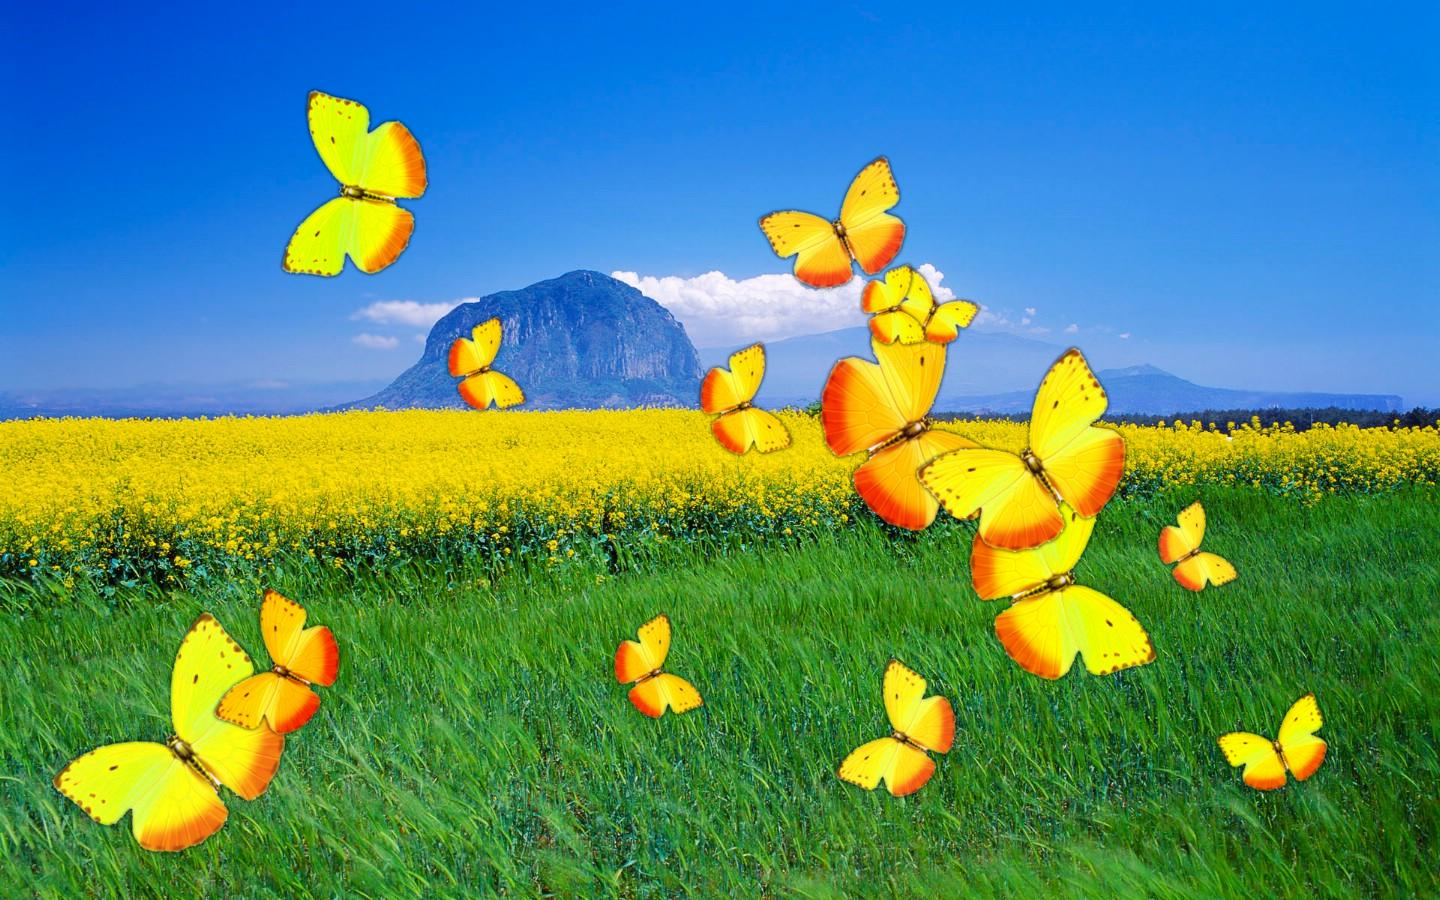
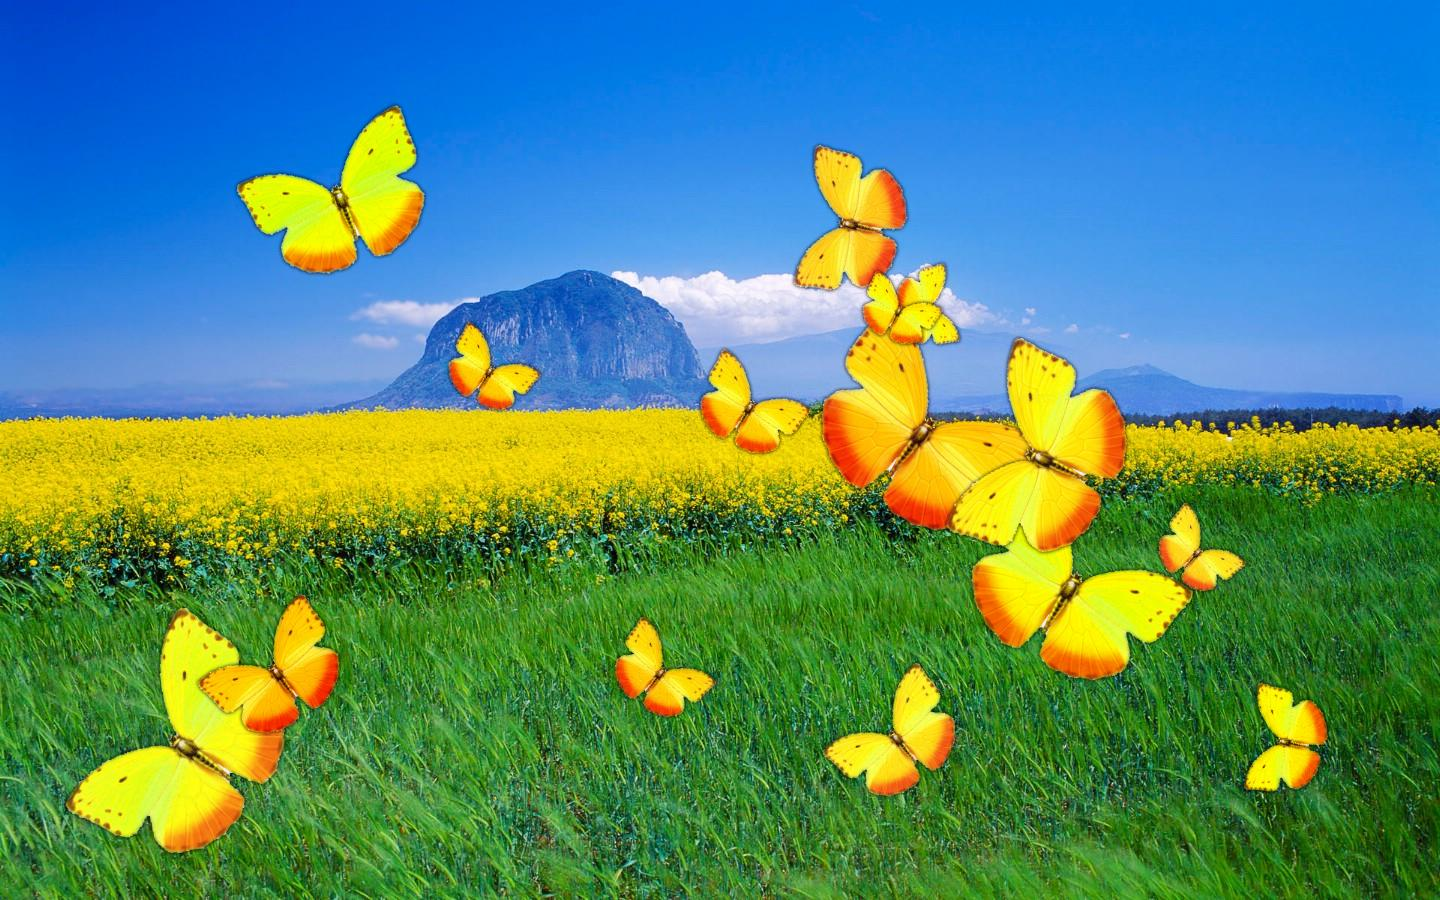
更新相关函数，换成自己编写的

diff --git a/imrotate_matlab_linear.m b/imrotate_matlab_linear.m
@@ -1,0 +1,145 @@
+function out = imrotate_matlab_linear(img, angleDeg, varargin)
+%IMROTATE_MATLAB_LINEAR  Teaching version of imrotate using matrix ops.
+%
+% out = imrotate_matlab_linear(img, angleDeg)
+% out = imrotate_matlab_linear(img, angleDeg, 'loose', true, 'fill', 0)
+%
+% - Uses homogeneous 3x3 transform matrices
+% - Uses inverse mapping + bilinear interpolation
+% - Supports "loose" canvas (like imrotate(...,'loose'))
+%
+% Notes:
+% - Coordinate convention: x = column index, y = row index (1-based)
+% - Rotation around image center
+
+% ---- parse args ----
+p = inputParser;
+addParameter(p, 'loose', true, @(x)islogical(x) && isscalar(x));
+addParameter(p, 'fill', 0, @(x)isnumeric(x) && isscalar(x));
+parse(p, varargin{:});
+doLoose  = p.Results.loose;
+fillVal  = p.Results.fill;
+
+img = double(img);  % compute in double
+[H, W, C] = size(img);
+
+% ---- angle ----
+theta = angleDeg * pi / 180;
+ct = cos(theta);
+st = sin(theta);
+
+% ---- define center (consistent with MATLAB style) ----
+% Use center at ( (W+1)/2, (H+1)/2 ) in 1-based coordinates
+cx = (W + 1) / 2;
+cy = (H + 1) / 2;
+
+% ---- build homogeneous transform T = Tc * R * T(-c) ----
+Tneg = [1 0 -cx;
+        0 1 -cy;
+        0 0  1];
+
+R = [ ct -st 0;
+      st  ct 0;
+      0   0  1];
+
+Tpos = [1 0 cx;
+        0 1 cy;
+        0 0  1];
+
+T = Tpos * R * Tneg;
+
+% ---- decide output canvas size ----
+if doLoose
+    % transform the 4 corners to find bounding box
+    corners = [ 1   W   W   1;
+                1   1   H   H;
+                1   1   1   1];
+    tc = T * corners;
+    x = tc(1, :);
+    y = tc(2, :);
+
+    xmin = floor(min(x));
+    xmax = ceil(max(x));
+    ymin = floor(min(y));
+    ymax = ceil(max(y));
+
+    outW = xmax - xmin + 1;
+    outH = ymax - ymin + 1;
+
+    % offset to shift output coords into 1..outW / 1..outH
+    % output pixel (xo,yo) corresponds to world coord:
+    % xw = xo + xmin - 1, yw = yo + ymin - 1
+    xminW = xmin;
+    yminW = ymin;
+else
+    outW = W;
+    outH = H;
+    xminW = 1;
+    yminW = 1;
+end
+
+% ---- create grid of output coordinates ----
+% output indices: xo=1..outW, yo=1..outH
+[xo, yo] = meshgrid(1:outW, 1:outH);
+
+% map to "world" coordinates in original reference
+xw = xo + (xminW - 1);
+yw = yo + (yminW - 1);
+
+% ---- inverse mapping: [xin; yin; 1] = inv(T) * [xw; yw; 1] ----
+Ti = inv(T);
+
+Pout = [xw(:)'; yw(:)'; ones(1, numel(xw))];
+Pin  = Ti * Pout;
+
+xin = reshape(Pin(1, :), outH, outW);
+yin = reshape(Pin(2, :), outH, outW);
+
+% ---- bilinear sampling for each channel ----
+out = zeros(outH, outW, C) + fillVal;
+
+% valid sampling area (need xin in [1,W], yin in [1,H])
+valid = (xin >= 1) & (xin <= W) & (yin >= 1) & (yin <= H);
+
+% compute neighbors
+x1 = floor(xin);  x2 = x1 + 1;
+y1 = floor(yin);  y2 = y1 + 1;
+
+% clamp neighbors to image bounds (for points near border)
+x1c = min(max(x1, 1), W);
+x2c = min(max(x2, 1), W);
+y1c = min(max(y1, 1), H);
+y2c = min(max(y2, 1), H);
+
+dx = xin - x1;
+dy = yin - y1;
+
+w11 = (1 - dx) .* (1 - dy);
+w21 = dx       .* (1 - dy);
+w12 = (1 - dx) .* dy;
+w22 = dx       .* dy;
+
+for k = 1:C
+    Ik = img(:,:,k);
+
+    % linear indices for the 4 neighbors
+    ind11 = sub2ind([H, W], y1c, x1c);
+    ind21 = sub2ind([H, W], y1c, x2c);
+    ind12 = sub2ind([H, W], y2c, x1c);
+    ind22 = sub2ind([H, W], y2c, x2c);
+
+    v11 = Ik(ind11);
+    v21 = Ik(ind21);
+    v12 = Ik(ind12);
+    v22 = Ik(ind22);
+
+    Vk = w11 .* v11 + w21 .* v21 + w12 .* v12 + w22 .* v22;
+
+    tmp = out(:,:,k);
+    tmp(valid) = Vk(valid);     % only write valid pixels; invalid keeps fillVal
+    out(:,:,k) = tmp;
+end
+
+% restore class similar to imrotate usage in your pipeline
+out = uint8(round(out));
+end

diff --git a/imresize_bilinear_mat.m b/imresize_bilinear_mat.m
@@ -1,0 +1,100 @@
+function out = imresize_bilinear_mat(img, outSize, varargin)
+%IMRESIZE_BILINEAR_MAT  Teaching version of imresize using matrix mapping.
+%
+% out = imresize_bilinear_mat(img, [outH outW])
+% out = imresize_bilinear_mat(img, [outH outW], 'fill', 0)
+%
+% Core idea:
+%   - Build output grid (xo, yo)
+%   - Map to input coordinates (xin, yin) with a scaling transform
+%   - Bilinear interpolate
+%
+% Coordinate convention:
+%   x = column index, y = row index (1-based)
+
+p = inputParser;
+addParameter(p, 'fill', 0, @(x)isnumeric(x) && isscalar(x));
+parse(p, varargin{:});
+fillVal = p.Results.fill;
+
+img_in = double(img);
+[inH, inW, C] = size(img_in);
+
+outH = outSize(1);
+outW = outSize(2);
+
+% If size is unchanged
+if outH == inH && outW == inW
+    out = img;
+    return;
+end
+
+% ---- Output grid ----
+[xo, yo] = meshgrid(1:outW, 1:outH);
+
+% ---- Inverse mapping (scale) ----
+% We map pixel centers to pixel centers.
+% Common choice: (x - 1)/(W-1) mapping when W>1; handle W==1 separately.
+if outW == 1
+    xin = ones(outH, outW) * ((inW + 1) / 2);
+elseif inW == 1
+    xin = ones(outH, outW);
+else
+    xin = 1 + (xo - 1) * (inW - 1) / (outW - 1);
+end
+
+if outH == 1
+    yin = ones(outH, outW) * ((inH + 1) / 2);
+elseif inH == 1
+    yin = ones(outH, outW);
+else
+    yin = 1 + (yo - 1) * (inH - 1) / (outH - 1);
+end
+
+% ---- Bilinear neighbors ----
+x1 = floor(xin); x2 = x1 + 1;
+y1 = floor(yin); y2 = y1 + 1;
+
+% clamp to bounds (for safety at borders)
+x1c = min(max(x1, 1), inW);
+x2c = min(max(x2, 1), inW);
+y1c = min(max(y1, 1), inH);
+y2c = min(max(y2, 1), inH);
+
+dx = xin - x1;
+dy = yin - y1;
+
+w11 = (1 - dx) .* (1 - dy);
+w21 = dx       .* (1 - dy);
+w12 = (1 - dx) .* dy;
+w22 = dx       .* dy;
+
+% ---- Sample per channel ----
+out_d = zeros(outH, outW, C) + fillVal;
+
+% All points are within bounds due to mapping; still keep a valid mask for generality
+valid = (xin >= 1) & (xin <= inW) & (yin >= 1) & (yin <= inH);
+
+for k = 1:C
+    Ik = img_in(:,:,k);
+
+    ind11 = sub2ind([inH, inW], y1c, x1c);
+    ind21 = sub2ind([inH, inW], y1c, x2c);
+    ind12 = sub2ind([inH, inW], y2c, x1c);
+    ind22 = sub2ind([inH, inW], y2c, x2c);
+
+    v11 = Ik(ind11);
+    v21 = Ik(ind21);
+    v12 = Ik(ind12);
+    v22 = Ik(ind22);
+
+    Vk = w11 .* v11 + w21 .* v21 + w12 .* v12 + w22 .* v22;
+
+    tmp = out_d(:,:,k);
+    tmp(valid) = Vk(valid);
+    out_d(:,:,k) = tmp;
+end
+
+% ---- Cast back to input class ----
+out = cast(round(out_d), 'like', img);
+end

diff --git a/Butterfly.m b/Butterfly.m
@@ -70,23 +70,29 @@ for i = 1:num_butterflies
     scale = 0.06 + rand() * 0.15;
     new_w = round(bg_w * scale);
     new_h = round(size(butterfly_orig,1) / size(butterfly_orig,2) * new_w);
-    b_resized = imresize(butterfly_extracted, [new_h, new_w]);
-    m_resized = imresize(double(mask), [new_h, new_w]);
+    b_resized = imresize_bilinear_mat(butterfly_extracted, [new_h, new_w], 'fill', 0);
 
+% mask 缩放建议用 double + fill=0，后续再二值化
+m_resized = imresize_bilinear_mat(double(mask), [new_h, new_w], 'fill', 0);
+m_resized = m_resized > 0.5;
     % (2) 旋转 —— ★ 关键：旋转时填充值设为 0（黑色），而不是白色
     angle = rand() * 60 - 30;  % 旋转角度 -30° ~ 30°，更自然
-    b_rotated = imrotate(b_resized, angle, 'bilinear', 'loose');
-    m_rotated = imrotate(m_resized, angle, 'bilinear', 'loose');
+   b_rotated = imrotate_matlab_linear(b_resized, angle, 'loose', true, 'fill', 0);
+
+% m_resized 是 double(mask) 这种0/1，旋转后仍会变成灰度（插值导致）
+m_rotated = imrotate_matlab_linear(uint8(255*m_resized), angle, 'loose', true, 'fill', 0);
+m_rotated = double(m_rotated) / 255;  % 回到0~1
+m_rotated = m_rotated > 0.5;          % 二值化
 
     % ★★★ 关键：旋转后新增的区域掩膜值为0，所以不会显示白色边框 ★★★
     % 将掩膜二值化（旋转插值后可能有中间值）
     m_rotated = m_rotated > 0.5;
 
     % (3) 随机水平翻转
-    if rand() > 0.5
-        b_rotated = fliplr(b_rotated);
-        m_rotated = fliplr(m_rotated);
-    end
+   if rand() > 0.5
+    b_rotated = flip_perm(b_rotated, 'lr');
+    m_rotated = flip_perm(m_rotated, 'lr');
+end
 
     % (4) 随机位置（平移）
     [bh, bw, ~] = size(b_rotated);

diff --git a/flip_perm.m b/flip_perm.m
@@ -1,0 +1,63 @@
+function [out, Perm] = flip_perm(img, mode)
+%FLIP_PERM  Flip image using permutation matrices (linear algebra style).
+%
+%   out = flip_perm(img, mode)
+%   [out, Perm] = flip_perm(img, mode)
+%
+% mode:
+%   'lr'  or 'fliplr'  -> out = A * P
+%   'ud'  or 'flipud'  -> out = Q * A
+%
+% Notes:
+%   - For integer images (uint8/uint16/int...), convert to double for mtimes,
+%     then cast back to original type.
+
+if nargin < 2
+    error('flip_perm requires (img, mode).');
+end
+
+mode = lower(string(mode));
+origClass = class(img);
+
+% Convert to double for matrix multiplication safety
+A = double(img);
+
+[H, W, C] = size(A);
+
+switch mode
+    case {"lr","fliplr"}
+        % P reverses columns
+        Perm = eye(W);
+        Perm = Perm(:, W:-1:1);
+
+        outD = zeros(size(A));
+        for k = 1:C
+            outD(:,:,k) = A(:,:,k) * Perm;
+        end
+
+    case {"ud","flipud"}
+        % Q reverses rows
+        Perm = eye(H);
+        Perm = Perm(H:-1:1, :);
+
+        outD = zeros(size(A));
+        for k = 1:C
+            outD(:,:,k) = Perm * A(:,:,k);
+        end
+
+    otherwise
+        error("Unknown mode '%s'. Use 'lr'/'fliplr' or 'ud'/'flipud'.", mode);
+end
+
+% Cast back (clamp for uint8-like types)
+if isinteger(img)
+    % clamp to valid range for the integer type
+    lo = double(intmin(origClass));
+    hi = double(intmax(origClass));
+    outD = min(max(outD, lo), hi);
+    out = cast(round(outD), origClass);
+else
+    % for double/single/logical: keep numeric type behavior reasonable
+    out = cast(outD, origClass);
+end
+end
